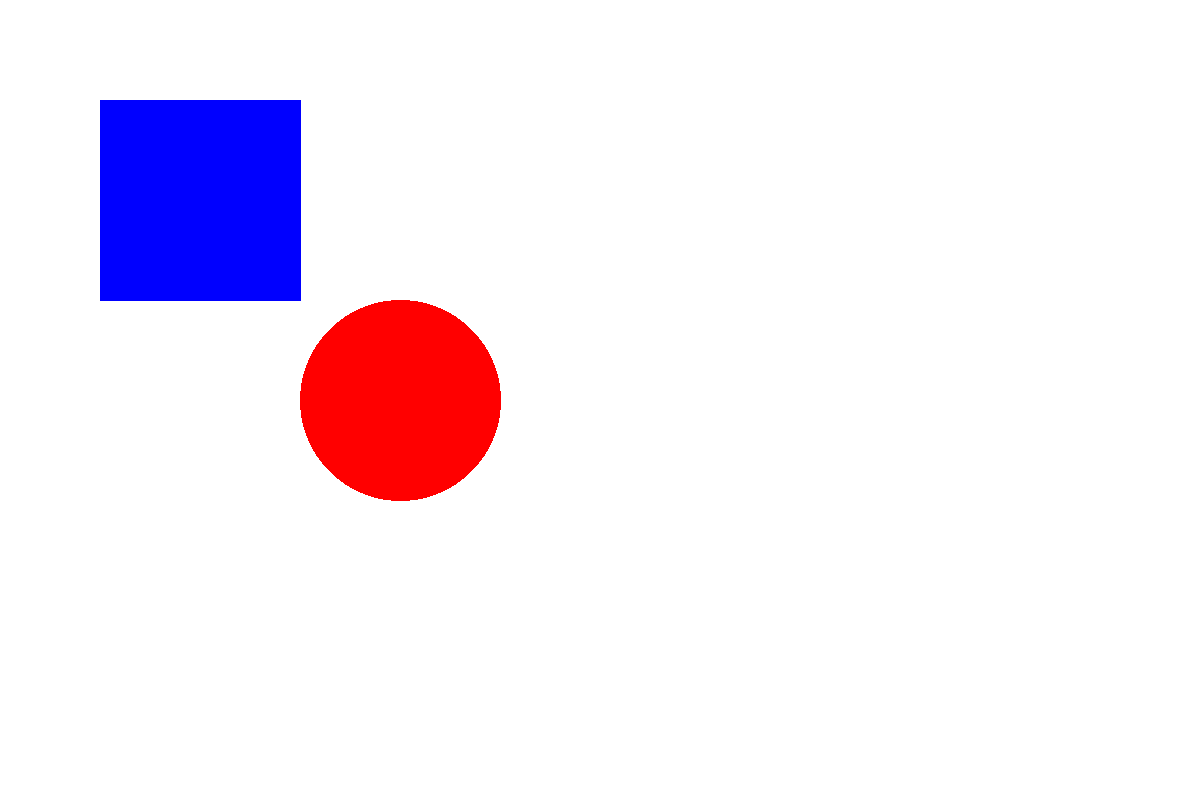
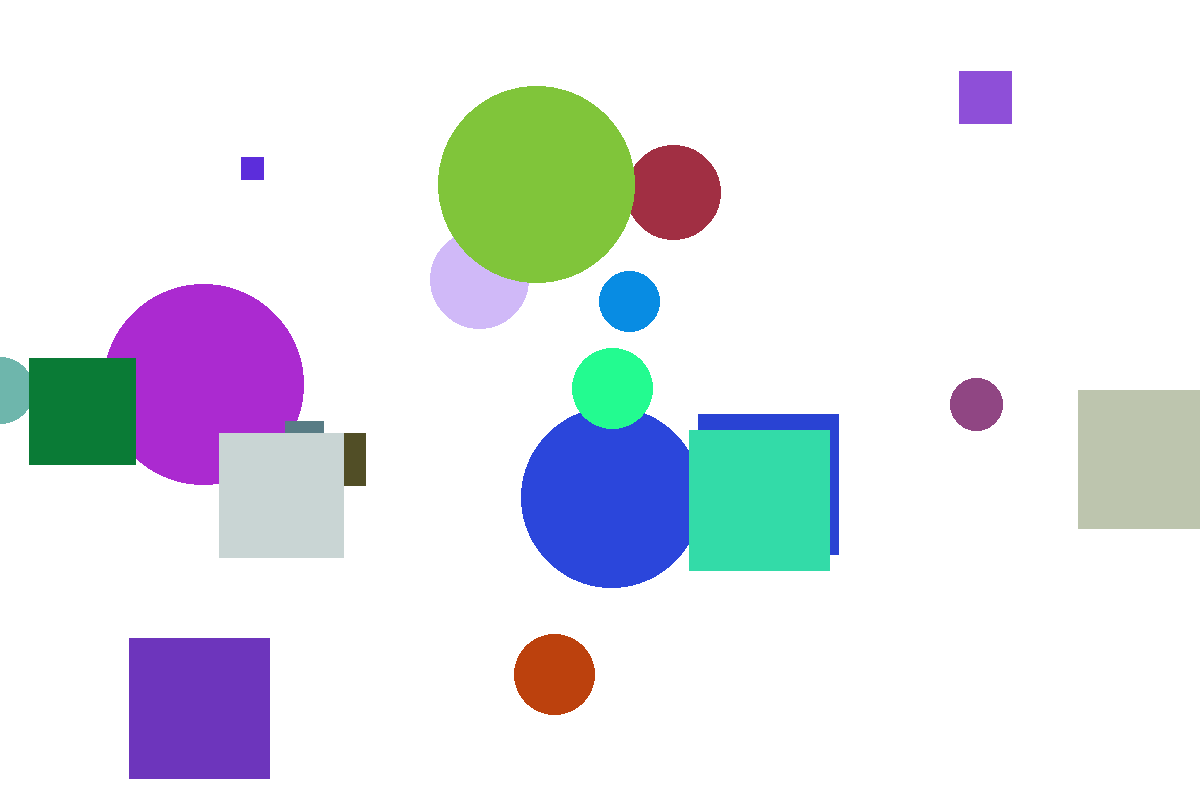
add more shapes

diff --git a/projects/generative_art/draw_shapes.py b/projects/generative_art/draw_shapes.py
@@ -1,7 +1,7 @@
-from curses.textpad import rectangle
-import re
+from calendar import c
 from PIL import Image, ImageDraw
 import os
+import random
 
 
 def change_directory_to_script_directory():
@@ -35,20 +35,53 @@ def draw_circle(canvas, position, radius, color):
 def show_canvas(canvas):
     canvas.show()
 
+
 def save_canvas(canvas, filename):
-    canvas.save(filename)   
+    canvas.save(filename)
+
 
 def main():
     change_directory_to_script_directory()
-    canvas = create_canvas()
-    circle_position = (400, 400)
-    circle_radius = 100
-    circle_color = (255, 0, 0)
-    draw_circle(canvas, circle_position, circle_radius, circle_color)
-    rectangle_position = (200, 200)
-    rectangle_size = 100
-    rectangle_color = (0, 0, 255)
-    draw_rectangle(canvas, rectangle_position, rectangle_size, rectangle_color)
+    canvas_width = 1200
+    canvas_height = 800
+    canvas_color = (255, 255, 255)
+    canvas = create_canvas((canvas_width, canvas_height), canvas_color)
+    # circle_position = (400, 400)
+    # circle_radius = 100
+    # circle_color = (255, 0, 0)
+    # draw_circle(canvas, circle_position, circle_radius, circle_color)
+    num_circles = 10
+    for _ in range(num_circles):
+        circle_position = (
+            random.randint(0, canvas_width),
+            random.randint(0, canvas_height),
+        )
+        circle_radius = random.randint(0, 100)
+        circle_color = (
+            random.randint(0, 255),
+            random.randint(0, 255),
+            random.randint(0, 255),
+        )
+        draw_circle(canvas, circle_position, circle_radius, circle_color)
+
+    # rectangle_position = (200, 200)
+    # rectangle_size = 100
+    # rectangle_color = (0, 0, 255)
+    # draw_rectangle(canvas, rectangle_position, rectangle_size, rectangle_color)
+
+    num_rectangles = 10
+    for _ in range(num_rectangles):
+        rectangle_position = (
+            random.randint(0, canvas_width),
+            random.randint(0, canvas_height),
+        )
+        rectangle_size = random.randint(0, 100)
+        rectangle_color = (
+            random.randint(0, 255),
+            random.randint(0, 255),
+            random.randint(0, 255),
+        )
+        draw_rectangle(canvas, rectangle_position, rectangle_size, rectangle_color)
     show_canvas(canvas)
     file_name = "shapes.png"
     save_canvas(canvas, file_name)
